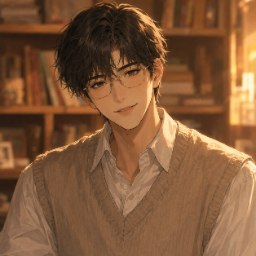
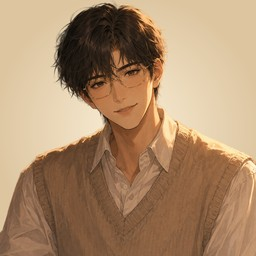
人物立绘改为透明抠像，按视觉小说通例嵌进场景（去掉相框卡）
原因：生图产出的人物插画自带背景（学姐那张里是整间活动室），无论加不加描边/相框，
贴到关卡场景图上都是"一张图里嵌了另一张图"。相框卡只是把不搭做成了有边框的不搭。

抠像：新增 scripts/matte-sprites.py（rembg + isnet-anime 二次元专用模型 + alpha matting），
立绘产出透明 sprite-*.webp，头像换成暖色渐变圆底 avatar-*.jpg；原不透明 sprite-*.jpg 删除。

构图参数取自业界实测（Ren'Py 默认 GUI / DDLC transforms.rpy）：
- 立绘锚点沉到画框下缘之下 3%，高度占画框 82%，左右取固定档位（27%/73%）
- 立绘在对话框之下，下半身被框压住；半身像靠容器限宽自动缩小，不会变大头
- 有立绘时背景景深虚化（blur 3px + 压暗 14%），人物才在前景
- 分离只靠贴合轮廓的 drop-shadow + 人物身后椭圆柔光，不用描边不用卡框
- 暖色罩用立绘自身 alpha 作遮罩，只染人物不染周围，统一色温
- 旁白时立绘压一档亮度并微偏冷；入场动效改用 DDLC 的 0.25s 数值
- 底部压暗调到画框 34% 高，正文 17px，文本栏收到画框 66%

docs/11 增补抠像流水线与立绘构图规则。四年全流程冒烟回归通过。

Claude-Session: https://claude.ai/code/session_01YVsrZbedsbBzpTaKHDKej7

diff --git a/src/engine/ScreenPlayer.tsx b/src/engine/ScreenPlayer.tsx
@@ -11,46 +11,69 @@ import { Typewriter } from '@/components/ui/Typewriter';
 import { FakeLoading } from '@/components/ui/FakeLoading';
 import { SpeakerTag } from '@/components/ui/SpeakerTag';
 
-/** VN 立绘：同名 .jpg 真图（国乙系卡面画，不透明）优先，按"相框卡"呈现——
- * 暖白描边 + 轻微倾斜 + 3% 琥珀罩色；缺省回退占位 .svg（透明剪影，直接贴场景上） */
-const SpriteImg: React.FC<{ src: string; side: 'left' | 'right' }> = ({ src, side }) => {
-  const preferred = src.endsWith('.svg') ? src.replace(/\.svg$/, '.jpg') : src;
+/** VN 立绘：站在场景里的透明抠像（.webp 优先，占位 .svg 兜底）。
+ * 构图参数取自视觉小说业界通例（Ren'Py 默认 GUI / DDLC transforms.rpy 的实测值）：
+ * · 锚点沉到画框下缘之下 3%（DDLC ypos 1.03）——完全齐平的下边会读成"贴上去的方块"；
+ * · 立绘高度占画框 82%（业界 64~85% 区间的上沿），半身像靠容器限宽自动缩小，不会变大头；
+ * · 左右位置取固定档位，不用"贴边+边距"；
+ * · 下半身被对话框压住 → 人物"站在"场景里而不是浮在上面。
+ * 与背景的分离只靠三件事：贴合轮廓的 drop-shadow、背景景深虚化、人物身后柔光。不用描边不用卡框。 */
+const SpriteImg: React.FC<{ src: string; side: 'left' | 'right'; dim?: boolean }> = ({
+  src,
+  side,
+  dim = false,
+}) => {
+  const preferred = src.endsWith('.svg') ? src.replace(/\.svg$/, '.webp') : src;
   const [cur, setCur] = useState(preferred);
   React.useEffect(() => setCur(preferred), [preferred]);
-  const isCard = cur !== src && cur.endsWith('.jpg');
-  if (isCard) {
-    return (
-      <div
-        className={`pointer-events-none absolute bottom-[9%] animate-fade-up ${
-          side === 'left' ? 'left-[5%] -rotate-2' : 'right-[5%] rotate-2'
-        } h-[66%]`}
-      >
-        <div className="relative h-full overflow-hidden rounded-2xl border-[3px] border-milk/90 shadow-pop">
-          <img
-            src={cur}
-            onError={() => setCur(src)}
-            alt=""
-            className="h-full w-auto object-cover"
-          />
-          <div className="absolute inset-0 bg-ember/[0.04]" />
-        </div>
-      </div>
-    );
-  }
+  // 用立绘自身的 alpha 当遮罩：暖色罩只染人物、不染它周围的透明区域
+  const maskStyle: React.CSSProperties = {
+    maskImage: `url(${cur})`,
+    WebkitMaskImage: `url(${cur})`,
+    maskSize: 'contain',
+    WebkitMaskSize: 'contain',
+    maskPosition: 'bottom',
+    WebkitMaskPosition: 'bottom',
+    maskRepeat: 'no-repeat',
+    WebkitMaskRepeat: 'no-repeat',
+  };
   return (
-    <img
-      src={cur}
-      onError={() => cur !== src && setCur(src)}
-      alt=""
-      className={`pointer-events-none absolute bottom-0 h-[76%] animate-fade-up ${
+    <div
+      aria-hidden
+      className={`pointer-events-none absolute bottom-[-3%] h-[82%] w-[42%] animate-sprite-in ${
         side === 'left' ? 'left-[6%]' : 'right-[6%]'
       }`}
-    />
+    >
+      {/* 注：不画脚下接地投影——立绘下缘一律被对话框压住，接地点在框后面，画了也看不见。 */}
+      <div
+        className="absolute inset-0 transition-transform duration-500"
+        style={{ transform: dim ? 'translateY(3%)' : 'translateY(0)' }}
+      >
+        <img
+          src={cur}
+          onError={() => cur !== src && setCur(src)}
+          alt=""
+          className="absolute inset-0 h-full w-full object-contain object-bottom transition-[filter] duration-500"
+          style={{
+            // 非说话人（旁白时）按业界做法压一档亮度并微微偏冷，说话人保持暖而亮
+            filter: `drop-shadow(0 10px 22px rgba(24,12,3,0.45)) ${
+              dim ? 'brightness(0.9) saturate(0.92) hue-rotate(6deg)' : 'brightness(1.02) saturate(1.05)'
+            }`,
+          }}
+        />
+        {/* 暖色统一罩：把人物拉进场景的金色时段光里，避免"另一张图"的色温割裂 */}
+        <div
+          className="absolute inset-0 mix-blend-soft-light"
+          style={{ ...maskStyle, backgroundColor: 'rgba(255,190,120,0.10)' }}
+        />
+      </div>
+    </div>
   );
 };
 
-/** VN 场景底图：presetAssets 若指向占位 .svg，则先试同名 .jpg 真图（生图后同名放入即替换，不改内容 JSON） */
-const SceneBg: React.FC<{ src?: string }> = ({ src }) => {
+/** VN 场景底图：presetAssets 若指向占位 .svg，则先试同名 .jpg 真图（生图后同名放入即替换，不改内容 JSON）。
+ * depth：有立绘时给背景一点景深虚化 + 压暗，人物才"在前景"，这是把角色嵌进环境的关键一层。 */
+const SceneBg: React.FC<{ src?: string; depth?: boolean }> = ({ src, depth = false }) => {
   const preferred = src?.endsWith('.svg') ? src.replace(/\.svg$/, '.jpg') : src;
   const [cur, setCur] = useState(preferred);
   React.useEffect(() => setCur(preferred), [preferred]);
@@ -60,7 +83,9 @@ const SceneBg: React.FC<{ src?: string }> = ({ src }) => {
       src={cur}
       onError={() => src && cur !== src && setCur(src)}
       alt=""
-      className="absolute inset-0 h-full w-full object-cover"
+      className={`absolute inset-0 h-full w-full object-cover transition-[filter] duration-500 ${
+        depth ? 'scale-105 blur-[3px] brightness-[0.86] saturate-[1.05]' : ''
+      }`}
     />
   );
 };
@@ -361,19 +386,37 @@ export const ScreenPlayer: React.FC<ScreenPlayerProps> = ({
         onClick={handleSceneClick}
         className="relative h-[min(72dvh,660px)] w-full select-none overflow-hidden rounded-2xl border border-line shadow-lift"
       >
-        {/* 场景：真图 .jpg 优先（生图后同名放 public/assets 即生效），缺省回退占位 .svg */}
-        <SceneBg src={sceneSrc} />
-        {/* 底部渐变压暗：托住对话盒，突出立绘 */}
-        <div className="pointer-events-none absolute inset-x-0 bottom-0 h-48 bg-gradient-to-t from-ink/25 to-transparent" />
+        {/* 图层顺序即构图：场景（有立绘时景深虚化）→ 人物身后柔光 → 立绘 → 底部压暗 → 对话框。
+            立绘在对话框之下，下半身被框压住——这是让人物"站进场景"而非"贴在场景上"的关键。 */}
+        <SceneBg src={sceneSrc} depth={!!spriteSrc} />
+        {/* 人物身后的柔光：把杂乱背景压下去一档，给立绘一个干净的落点 */}
+        {spriteSrc && (
+          <div
+            aria-hidden
+            className="pointer-events-none absolute inset-0"
+            style={{
+              background: `radial-gradient(ellipse 42% 78% at ${
+                screen.speaker === 'npc' ? '22%' : '78%'
+              } 72%, rgba(255,214,160,0.16) 0%, rgba(38,24,15,0.20) 55%, transparent 78%)`,
+            }}
+          />
+        )}
+        {/* 立绘：学长在右，NPC 在左（抠像 webp 优先，占位 svg 兜底） */}
+        {spriteSrc && (
+          <SpriteImg
+            key={spriteSrc}
+            src={spriteSrc}
+            side={screen.speaker === 'npc' ? 'left' : 'right'}
+            dim={isSystem}
+          />
+        )}
+        {/* 底部压暗（画框高度的约 34%）：既托住对话盒的可读性，又把立绘下缘融进暗部 */}
+        <div className="pointer-events-none absolute inset-x-0 bottom-0 h-[34%] bg-gradient-to-t from-ink/[0.62] via-ink/[0.22] to-transparent" />
         {/* 新手提示：单击继续 */}
         {showVnHint && screen.type === 'dialogue' && (
           <span className="absolute right-4 top-4 z-10 animate-pulse rounded-full bg-ink/60 px-3.5 py-1.5 text-xs text-paper">
             👆 {(ui.hints as Record<string, string>)['vn-click']}
           </span>
-        )}
-        {/* 立绘：学长在右，NPC 在左（真图卡面 jpg 优先，占位 svg 兜底） */}
-        {spriteSrc && (
-          <SpriteImg key={spriteSrc} src={spriteSrc} side={screen.speaker === 'npc' ? 'left' : 'right'} />
         )}
         {/* 选项浮层 */}
         {screen.type === 'choice' && ready && (
@@ -399,10 +442,11 @@ export const ScreenPlayer: React.FC<ScreenPlayerProps> = ({
         )}
         {/* 底部对话盒 */}
         <div className="absolute inset-x-0 bottom-0 p-4">
-          <div className="mx-auto max-w-3xl">
+          {/* 文本栏宽度约占画框 66%（业界建议 58%~，中文字宽略放宽），两侧留白对称 */}
+          <div className="mx-auto max-w-2xl">
             {!isSystem && (
               <span
-                className={`relative z-10 -mb-px ml-4 inline-block rounded-t-xl border border-b-0 border-line/60 px-4 py-1.5 text-sm font-semibold tracking-wide ${
+                className={`relative z-10 -mb-[3px] ml-4 inline-block rounded-t-xl border border-b-0 border-line/60 px-4 py-1.5 text-sm font-semibold tracking-wide ${
                   screen.speaker === 'senpai' ? 'bg-accent text-white' : 'bg-dusk-2 text-cream'
                 }`}
               >
@@ -415,12 +459,12 @@ export const ScreenPlayer: React.FC<ScreenPlayerProps> = ({
                   <Typewriter
                     text={text}
                     onDone={() => setTypingDone(true)}
-                    className="text-left text-[16px] leading-[1.9]"
+                    className="text-left text-[17px] leading-[1.9]"
                   />
                 ) : (
                   <div className="flex flex-col gap-2.5">
                     {text.split('\n').map((line, i) => (
-                      <p key={i} className="text-left text-[16px] leading-[1.8]">
+                      <p key={i} className="text-left text-[17px] leading-[1.8]">
                         {line}
                       </p>
                     ))}

diff --git a/tailwind.config.js b/tailwind.config.js
@@ -101,6 +101,11 @@ export default {
           '0%, 100%': { opacity: '0.55' },
           '50%': { opacity: '1' },
         },
+        // VN 立绘入场：淡入 + 从上方 20px 落定 + 由 0.95 放到 1（DDLC transforms.rpy 的实测值）
+        'sprite-in': {
+          '0%': { opacity: '0', transform: 'translateY(-20px) scale(0.95)' },
+          '100%': { opacity: '1', transform: 'translateY(0) scale(1)' },
+        },
       },
       animation: {
         'fade-up': 'fade-up 0.35s ease-out both',
@@ -113,6 +118,7 @@ export default {
         'arrow-bob': 'arrow-bob 1.2s ease-in-out infinite',
         'arrow-glow': 'arrow-glow 1.2s ease-in-out infinite',
         'hl-glow': 'hl-glow 3.2s ease-in-out infinite',
+        'sprite-in': 'sprite-in 0.25s ease-in both',
       },
     },
   },

diff --git a/scripts/matte-sprites.py b/scripts/matte-sprites.py
@@ -1,0 +1,120 @@
+#!/usr/bin/env python3
+"""人物插画 → 透明立绘 / 头像（抠像流水线）。
+
+为什么需要它：生图工具产出的人物插画自带背景（学姐那张里是整间活动室），
+直接贴到关卡场景图上就是"一张图里嵌了另一张图"。VN 立绘必须是透明抠像，
+人物才能站进场景里。
+
+用法（需要一次性装依赖，约 250MB，含 176MB 的 isnet-anime 模型）：
+    python3 -m venv .mattenv
+    .mattenv/bin/pip install "rembg[cpu]" pillow
+    .mattenv/bin/python scripts/matte-sprites.py <原图目录>
+
+原图目录里按下面的 SPRITES / AVATARS 表命名即可；产物直接写进 public/assets，
+文件名与引擎约定一致（立绘 sprite-*.webp 带 alpha，头像 avatar-*.jpg 暖底圆章）。
+另会在 <原图目录>/_check 下输出洋红棋盘格校验图，用于肉眼检查抠边残留。
+
+模型选 isnet-anime：专门针对二次元角色训练，对发丝和半透明边缘明显好于通用 u2net。
+"""
+import os
+import sys
+
+from PIL import Image, ImageDraw, ImageFilter
+from rembg import new_session, remove
+
+OUT = os.path.join(os.path.dirname(os.path.dirname(os.path.abspath(__file__))), "public", "assets")
+
+# 立绘：抠成透明 webp，按内容 bbox 裁紧，统一高度 900px
+# （下缘不留边——立绘下半身一律被对话框压住）
+SPRITES = [
+    ("学长立绘.png", "sprite-senpai"),
+    ("学姐（海报）.png", "sprite-xuejie"),
+    ("导师.png", "sprite-prof"),
+    ("面试官.png", "sprite-hr"),
+]
+# 头像：保持原取景，只把背景换成暖色渐变圆底（原图各自的书架/活动室背景与 UI 不搭）
+AVATARS = [("学长头像.png", "avatar-senpai"), ("学姐头像.png", "avatar-xuejie")]
+
+SPRITE_H = 900
+AVATAR_SIZE = 256
+INNER, OUTER = (250, 238, 214), (221, 197, 160)  # 呼应 parchment / cream 色板
+
+MATTE_KW = dict(
+    alpha_matting=True,
+    alpha_matting_foreground_threshold=250,
+    alpha_matting_background_threshold=15,
+    alpha_matting_erode_size=8,
+)
+
+
+def cutout(session, path):
+    """抠像 + 轻微羽化 alpha（消锯齿与残留背景色描边）。"""
+    img = Image.open(path).convert("RGBA")
+    cut = remove(img, session=session, **MATTE_KW)
+    cut.putalpha(cut.getchannel("A").filter(ImageFilter.GaussianBlur(0.6)))
+    return cut
+
+
+def warm_disc(size):
+    """暖色径向底：中心奶油、边缘略深。"""
+    w, h = size
+    bg = Image.new("RGB", size, OUTER)
+    px = bg.load()
+    cx, cy, r = w / 2, h / 2, (w**2 + h**2) ** 0.5 / 2
+    for y in range(h):
+        for x in range(w):
+            d = min(1.0, (((x - cx) ** 2 + (y - cy) ** 2) ** 0.5) / r * 1.35)
+            px[x, y] = tuple(round(INNER[i] + (OUTER[i] - INNER[i]) * d) for i in range(3))
+    return bg.convert("RGBA")
+
+
+def main(src_dir):
+    check_dir = os.path.join(src_dir, "_check")
+    os.makedirs(check_dir, exist_ok=True)
+    session = new_session("isnet-anime")
+
+    for name, stem in SPRITES:
+        path = os.path.join(src_dir, name)
+        if not os.path.exists(path):
+            print(f"skip (missing): {name}")
+            continue
+        cut = cutout(session, path)
+        box = cut.getbbox()
+        if box:
+            cut = cut.crop(box)
+        w, h = cut.size
+        cut = cut.resize((max(1, round(w * SPRITE_H / h)), SPRITE_H), Image.LANCZOS)
+        out = os.path.join(OUT, stem + ".webp")
+        cut.save(out, "WEBP", quality=88, method=6)
+        print(f"{stem}.webp  {cut.size[0]}x{cut.size[1]}  {os.path.getsize(out)//1024}KB")
+
+        chk = Image.new("RGBA", cut.size, (255, 0, 255, 255))
+        chk.alpha_composite(cut)
+        chk.convert("RGB").save(os.path.join(check_dir, stem + ".jpg"), quality=88)
+
+    for name, stem in AVATARS:
+        path = os.path.join(src_dir, name)
+        if not os.path.exists(path):
+            print(f"skip (missing): {name}")
+            continue
+        cut = cutout(session, path)
+        bg = warm_disc(cut.size)
+        bg.alpha_composite(cut)
+        img = bg.convert("RGB").resize((AVATAR_SIZE, AVATAR_SIZE), Image.LANCZOS)
+        out = os.path.join(OUT, stem + ".jpg")
+        img.save(out, "JPEG", quality=90)
+        print(f"{stem}.jpg  {AVATAR_SIZE}x{AVATAR_SIZE}  {os.path.getsize(out)//1024}KB")
+
+        mask = Image.new("L", (AVATAR_SIZE, AVATAR_SIZE), 0)
+        ImageDraw.Draw(mask).ellipse((0, 0, AVATAR_SIZE - 1, AVATAR_SIZE - 1), fill=255)
+        prev = Image.new("RGB", (AVATAR_SIZE, AVATAR_SIZE), (38, 24, 15))
+        prev.paste(img, (0, 0), mask)
+        prev.save(os.path.join(check_dir, stem + ".jpg"), quality=92)
+
+    print("校验图：", check_dir)
+
+
+if __name__ == "__main__":
+    if len(sys.argv) < 2:
+        sys.exit(f"用法：{sys.argv[0]} <原图目录>")
+    main(sys.argv[1])

diff --git a/docs/11_关卡底图提示词表.md b/docs/11_关卡底图提示词表.md
@@ -46,21 +46,39 @@
 | 8 | bg-meeting.jpg | 上午通透 | 现代面试会议室空景：一张浅木色长会议桌，两侧各一把椅子相对而放（面试对坐的阵势），桌上有一份合上的文件夹和两瓶矿泉水，落地玻璃窗外是上午通透阳光下的校园和写字楼，白墙上挂一面挂钟，干净克制、微微紧张的正式感 |
 | 9 | bg-grad.jpg（可选新增） | 黄昏晚霞 | 大学操场毕业典礼散场后的空景：操场草坪上搭着简单的舞台背景板（无文字，只有拉花和气球），几束晚霞金光打在跑道上，草地上散落着几顶学士帽，看台空了一半，天空是橙紫色晚霞，盛大落幕后的怅然与温柔 |
 
-## 三点五、人物立绘与头像（v1.1 已就位）
+## 三点五、人物立绘与头像（v1.2）
 
-国乙系半厚涂人物图（2026-08 品牌方脚本文档批次）已按下表落位；立绘为不透明卡面图，
-引擎以「相框卡」样式呈现（暖白描边+轻倾斜，jpg 优先、占位 svg 兜底），同名替换即可换图：
+### 铁则：立绘必须是透明抠像，不能是带背景的插画
 
-| 文件名 | 内容 | 用在哪 |
-|---|---|---|
-| sprite-senpai.jpg | 学长全身立绘（递档案袋） | 全部关卡 VN 学长出场 |
-| sprite-xuejie.jpg | 学姐抱海报筒（活动室背景） | 海报关 / PPT 关 VN |
-| sprite-prof.jpg | 导师半身像 | 找导师关 / 毕业论文关 VN |
-| sprite-hr.jpg | 面试官半身像 | 模拟面试关 / 接单关 VN |
-| avatar-senpai.jpg | 学长头像（256²） | 对话/聊天气泡头像（缺省回退 senpai.svg） |
-| avatar-xuejie.jpg | 学姐头像（256²） | 海报关聊天卡头像（presetAssets 引用） |
+生图工具产出的人物图自带背景（学姐那张里是整间活动室）。直接贴到场景图上＝
+「一张图里嵌了另一张图」，无论加不加描边/相框都不成立。**人物图入库前必须先抠像。**
 
-（学长三视图为角色设定参考图，供后续生图对齐用，不打包进前端。）
+抠像流水线：`scripts/matte-sprites.py`（rembg + isnet-anime 二次元专用模型）。
+把生成的原图按下表命名放一个目录里，跑一次即可产出全部资产 + 洋红棋盘格校验图。
+
+### 资产表
+
+| 文件名 | 格式 | 内容 | 用在哪 |
+|---|---|---|---|
+| sprite-senpai.webp | 透明抠像 · 高 900 | 学长全身（递档案袋） | 全部关卡 VN 学长出场 |
+| sprite-xuejie.webp | 透明抠像 · 高 900 | 学姐抱海报筒 | 海报关 / PPT 关 VN |
+| sprite-prof.webp | 透明抠像 · 高 900 | 导师半身 | 找导师关 / 毕业论文关 VN |
+| sprite-hr.webp | 透明抠像 · 高 900 | 面试官半身 | 模拟面试关 / 接单关 VN |
+| avatar-senpai.jpg | 256² 暖底圆章 | 学长头像 | 对话头像（缺省回退 senpai.svg） |
+| avatar-xuejie.jpg | 256² 暖底圆章 | 学姐头像 | 海报关聊天卡（presetAssets 引用） |
+
+（学长三视图是角色设定参考图，供后续生图对齐用，不入库、不打包。）
+
+### 立绘构图规则（ScreenPlayer 已实现，改图不用改代码）
+
+1. **底对齐、下半身被对话框压住** —— 人物"站进"场景，而不是浮在场景上；
+2. **半身像自动限宽**（容器 42% 宽 + object-contain）—— 导师/面试官这种胸像不会变成大头；
+3. **背景景深虚化**（blur 2.5px + 压暗 12%）—— 有立绘时才启用，人物才在前景；
+4. **贴合轮廓的 drop-shadow** 做分离，**不用描边、不用相框**；
+5. 人物身后一层椭圆柔光，把杂乱背景压下去一档；
+6. 说话人在右（学长）/ 左（NPC）；旁白（system）时立绘降到 80% 不透明 + 70% 亮度。
+
+> 不画脚下接地投影：立绘下缘一律被对话框盖住，接地点在框后面，画了也看不见。
 
 ## 四、落地与验证
 
